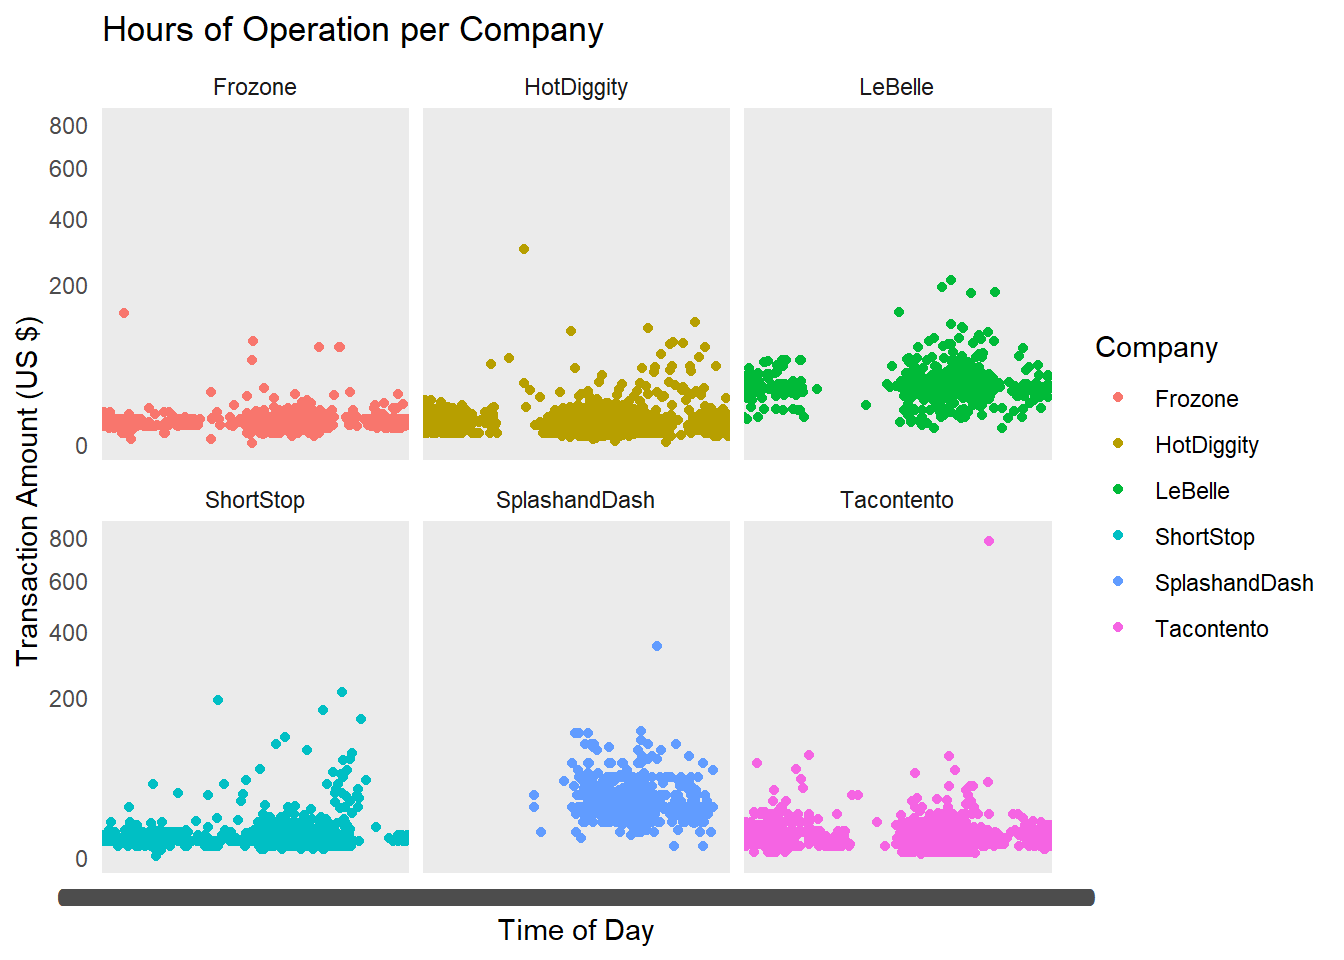
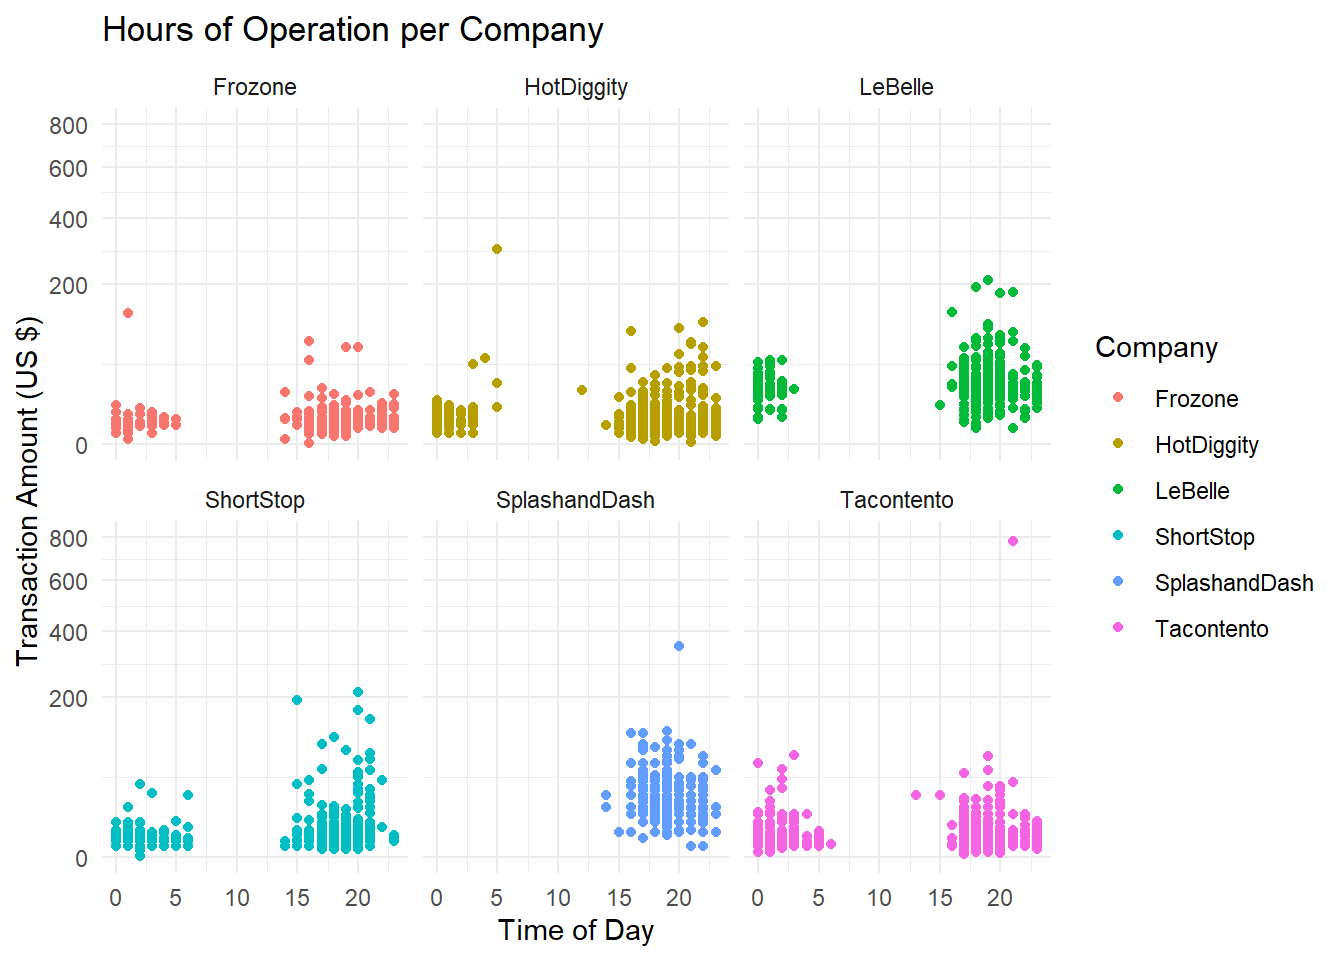
Fixed last graph and x axis

diff --git a/week_07/About Time.html b/week_07/About Time.html
@@ -128,10 +128,15 @@ pre > code.sourceCode > span > a:first-child::before { text-decoration: underlin
 <span id="cb3-11"><a href="#cb3-11"></a>  <span class="fu">rename</span>(<span class="st">"Company"</span> <span class="ot">=</span> <span class="st">"Name"</span>) <span class="sc">%&gt;%</span> </span>
 <span id="cb3-12"><a href="#cb3-12"></a>  <span class="fu">separate</span>(sale_time, <span class="at">into =</span> <span class="fu">c</span>(<span class="st">"date"</span>, <span class="st">"timestamp"</span>), <span class="at">sep =</span> <span class="sc">-</span><span class="dv">8</span>, <span class="at">remove =</span> <span class="cn">FALSE</span>)</span>
 <span id="cb3-13"><a href="#cb3-13"></a>  </span>
-<span id="cb3-14"><a href="#cb3-14"></a></span>
-<span id="cb3-15"><a href="#cb3-15"></a>transactions <span class="ot">&lt;-</span> sales2 <span class="sc">%&gt;%</span> </span>
-<span id="cb3-16"><a href="#cb3-16"></a>  <span class="fu">group_by</span>(Company) <span class="sc">%&gt;%</span> </span>
-<span id="cb3-17"><a href="#cb3-17"></a>  <span class="fu">summarise</span>(<span class="at">Sales =</span> <span class="fu">n</span>())</span></code><button title="Copy to Clipboard" class="code-copy-button"><i class="bi"></i></button></pre></div>
+<span id="cb3-14"><a href="#cb3-14"></a>hourly_sales <span class="ot">&lt;-</span> sales2 <span class="sc">%&gt;%</span> </span>
+<span id="cb3-15"><a href="#cb3-15"></a>  <span class="fu">mutate</span>(<span class="at">hourly =</span> <span class="fu">hour</span>(sale_time))</span>
+<span id="cb3-16"><a href="#cb3-16"></a></span>
+<span id="cb3-17"><a href="#cb3-17"></a>transactions <span class="ot">&lt;-</span> sales2 <span class="sc">%&gt;%</span> </span>
+<span id="cb3-18"><a href="#cb3-18"></a>  <span class="fu">group_by</span>(Company) <span class="sc">%&gt;%</span> </span>
+<span id="cb3-19"><a href="#cb3-19"></a>  <span class="fu">summarise</span>(<span class="at">Sales =</span> <span class="fu">n</span>())</span>
+<span id="cb3-20"><a href="#cb3-20"></a></span>
+<span id="cb3-21"><a href="#cb3-21"></a></span>
+<span id="cb3-22"><a href="#cb3-22"></a><span class="co">#group_by name and date</span></span></code><button title="Copy to Clipboard" class="code-copy-button"><i class="bi"></i></button></pre></div>
 </details>
 </div>
 <section id="gross-revenue-over-time-per-company" class="level2">
@@ -168,6 +173,9 @@ pre > code.sourceCode > span > a:first-child::before { text-decoration: underlin
 </section>
 <section id="transactions-per-company" class="level2">
 <h2 class="anchored" data-anchor-id="transactions-per-company">Transactions per Company</h2>
+</section>
+<section id="transactions-per-company-1" class="level1">
+<h1>Transactions per Company</h1>
 <div class="cell">
 <details class="code-fold">
 <summary>Code</summary>
@@ -185,13 +193,13 @@ pre > code.sourceCode > span > a:first-child::before { text-decoration: underlin
 </div>
 </div>
 </div>
-</section>
 <section id="hours-of-operation" class="level2">
 <h2 class="anchored" data-anchor-id="hours-of-operation">Hours of Operation</h2>
+<p>Hours of Operation</p>
 <div class="cell">
 <details class="code-fold">
 <summary>Code</summary>
-<div class="sourceCode cell-code" id="cb8"><pre class="sourceCode numberSource r number-lines code-with-copy"><code class="sourceCode r"><span id="cb8-1"><a href="#cb8-1"></a><span class="fu">ggplot</span>(sales2, <span class="fu">aes</span>(<span class="at">x =</span> timestamp, <span class="at">y =</span> Amount, <span class="at">color =</span> Company, <span class="at">groups =</span> Company)) <span class="sc">+</span></span>
+<div class="sourceCode cell-code" id="cb8"><pre class="sourceCode numberSource r number-lines code-with-copy"><code class="sourceCode r"><span id="cb8-1"><a href="#cb8-1"></a><span class="fu">ggplot</span>(hourly_sales, <span class="fu">aes</span>(<span class="at">x =</span> hourly, <span class="at">y =</span> Amount, <span class="at">color =</span> Company, <span class="at">groups =</span> Company)) <span class="sc">+</span></span>
 <span id="cb8-2"><a href="#cb8-2"></a>  <span class="fu">geom_point</span>() <span class="sc">+</span></span>
 <span id="cb8-3"><a href="#cb8-3"></a>  <span class="fu">labs</span>(<span class="at">title =</span> <span class="st">"Hours of Operation per Company"</span>, </span>
 <span id="cb8-4"><a href="#cb8-4"></a>       <span class="at">x =</span> <span class="st">"Time of Day"</span>,</span>
@@ -217,6 +225,7 @@ pre > code.sourceCode > span > a:first-child::before { text-decoration: underlin
 <div class="sourceCode cell-code" id="cb10"><pre class="sourceCode numberSource r number-lines code-with-copy"><code class="sourceCode r"><span id="cb10-1"><a href="#cb10-1"></a><span class="co">#scale_x_continuous(breaks = seq(0, 24, 2)) +</span></span></code><button title="Copy to Clipboard" class="code-copy-button"><i class="bi"></i></button></pre></div>
 </details>
 </div>
+</section>
 </section>
 
 </main>

diff --git a/week_07/About Time.html.md b/week_07/About Time.html.md
@@ -49,10 +49,15 @@ sales2 <- sales %>%
   rename("Company" = "Name") %>% 
   separate(sale_time, into = c("date", "timestamp"), sep = -8, remove = FALSE)
   
+hourly_sales <- sales2 %>% 
+  mutate(hourly = hour(sale_time))
 
 transactions <- sales2 %>% 
   group_by(Company) %>% 
   summarise(Sales = n())
+
+
+#group_by name and date
 ```
 :::
 
@@ -103,6 +108,8 @@ Warning: A numeric `legend.position` argument in `theme()` was deprecated in ggp
 ## Transactions per Company
 
 
+# Transactions per Company
+
 ::: {.cell}
 
 ```{.r .cell-code}
@@ -122,10 +129,12 @@ ggplot(data = transactions, aes(x = Company, y = Sales, fill = Company)) +
 ## Hours of Operation
 
 
+Hours of Operation
+
 ::: {.cell}
 
 ```{.r .cell-code}
-ggplot(sales2, aes(x = timestamp, y = Amount, color = Company, groups = Company)) +
+ggplot(hourly_sales, aes(x = hourly, y = Amount, color = Company, groups = Company)) +
   geom_point() +
   labs(title = "Hours of Operation per Company", 
        x = "Time of Day",
